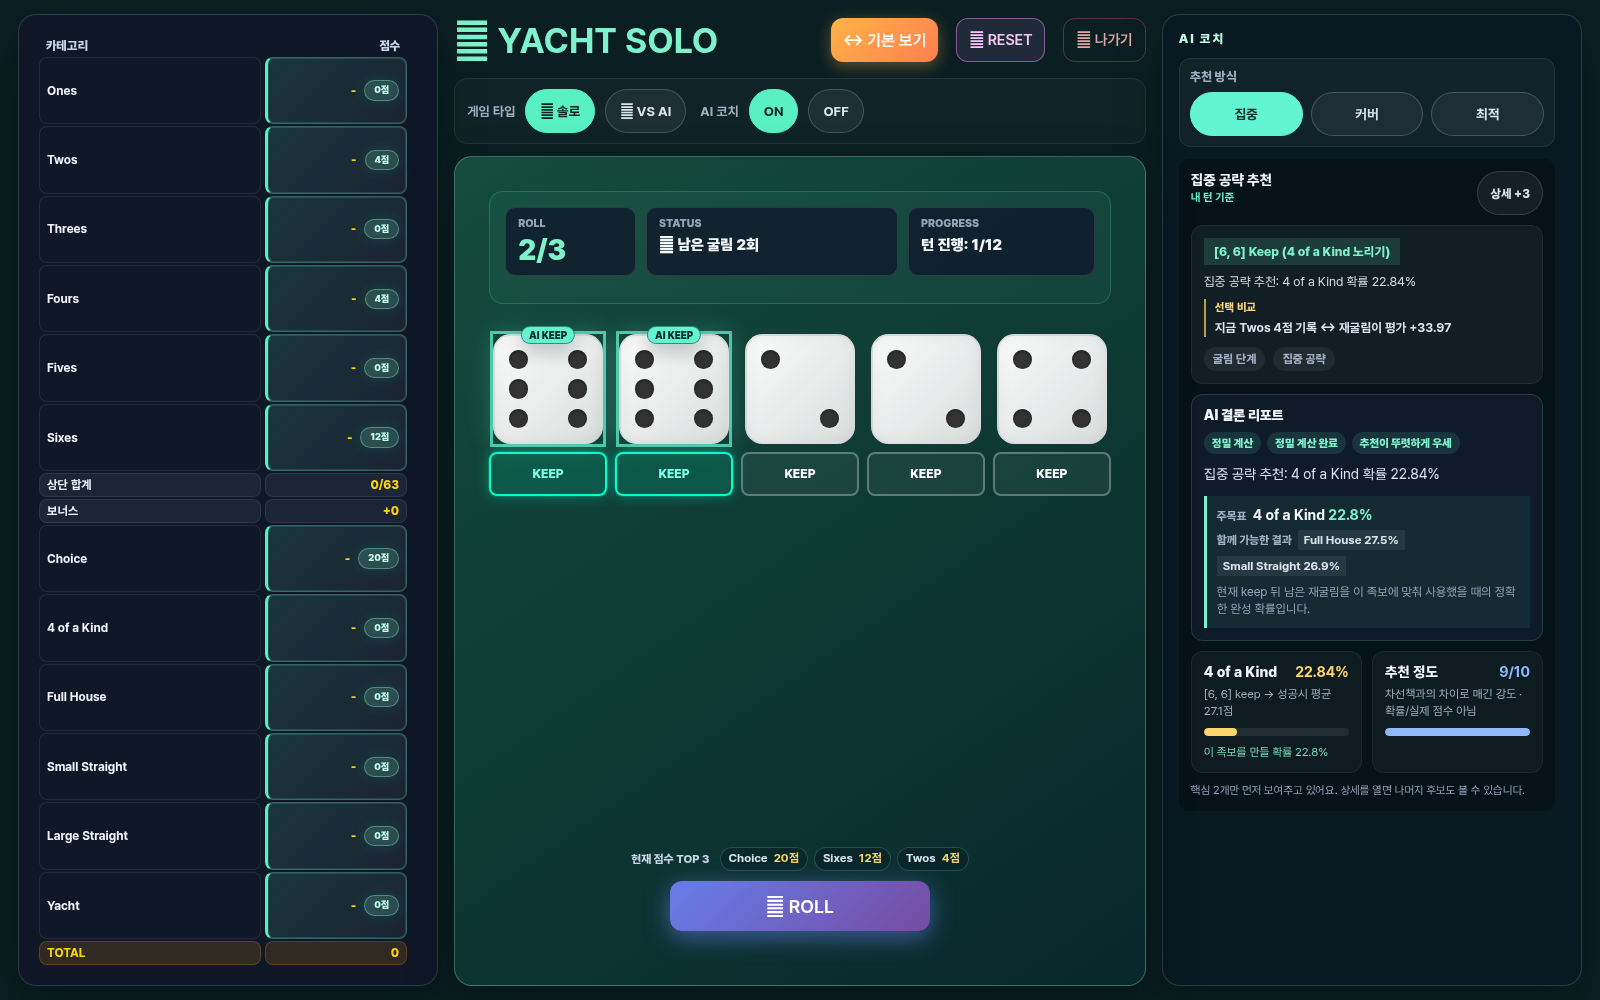
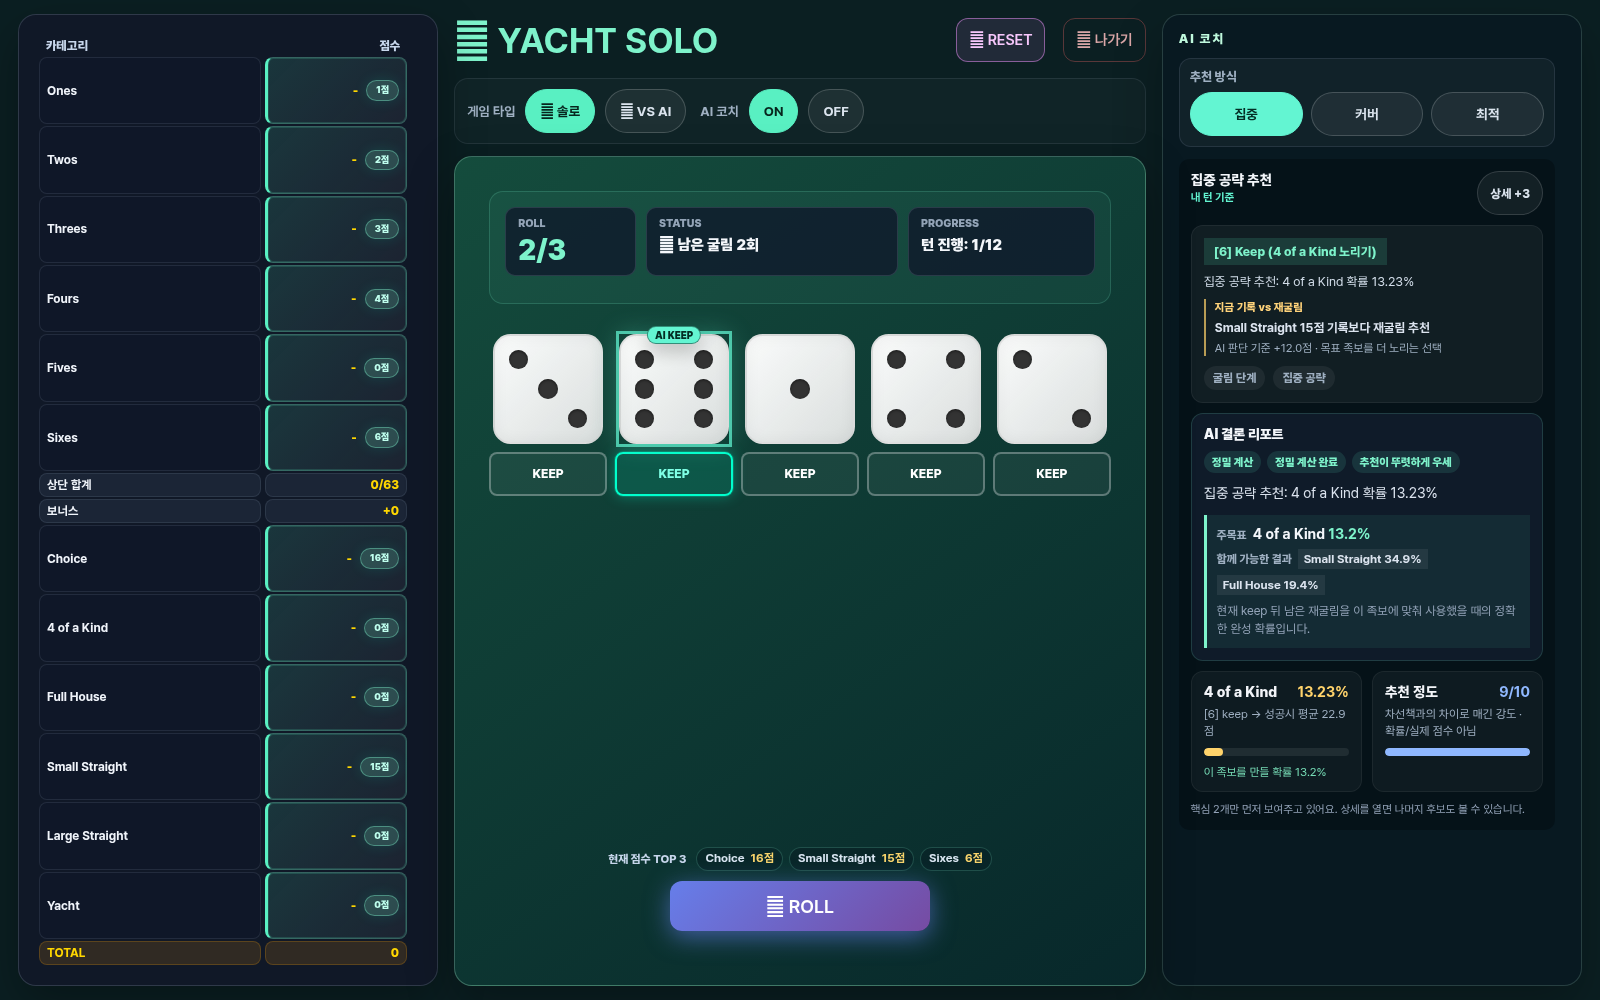
Document responsive table game layout

diff --git a/README.md b/README.md
@@ -4,7 +4,15 @@
 
 [바로 플레이하기](https://app.yatch-game.cloud/) · [게임 소개](https://app.yatch-game.cloud/intro) · [API 문서](./API.md)
 
-<img src="./docs/screenshots/table-default.png" width="1200" alt="데스크톱 기본 테이블 보기: 점수판, 주사위, 현재 점수 TOP 3, AI 코치를 한 화면에서 보여주는 Yacht 플레이" />
+<img src="./docs/screenshots/table-default.png" width="1200" alt="데스크톱 테이블 보기 예시: 점수판, 주사위, 현재 점수 TOP 3, AI 코치를 한 화면에서 보여주는 Yacht 플레이" />
+
+## 화면 구성
+
+- **PC** — 게임을 열면 자동으로 테이블 보기를 사용합니다. 왼쪽 점수판, 가운데 주사위와 ROLL, 오른쪽 AI 코치를 한 화면에 두어 현재 선택과 점수 흐름을 함께 볼 수 있습니다.
+- **모바일** — 기존의 세로 흐름을 유지합니다. 주사위를 먼저 보고 점수판과 추천을 아래에서 차례로 확인하므로 작은 화면에서도 조작이 빽빽해지지 않습니다.
+- **점수판** — 상단 족보 합계는 `현재 점수/63`, 보너스는 `+0` 또는 획득 점수로 표시합니다. 족보 이름에 마우스를 올리면 해당 족보의 점수 규칙을 볼 수 있습니다.
+
+데스크톱에서 `현재 점수 TOP 3`는 이번 주사위로 바로 기록할 수 있는 높은 점수 후보를 보여줍니다. 최종 선택은 항상 플레이어가 하며, 모바일에서는 공간을 위해 이 요약을 숨깁니다.
 
 ## 한 턴은 이렇게 합니다
 
@@ -51,6 +59,8 @@ python3 server.py
 ```
 
 브라우저에서 `http://localhost:8080`을 엽니다.
+
+화면 크기에 따라 게임 화면은 자동으로 전환됩니다. PC에서는 `/game/single/table`, `/game/multi/table` 테이블 보기를 사용하고, 모바일에서는 `/game/single`, `/game/multi` 세로 보기를 사용합니다.
 
 운영 환경에서는 Gunicorn을 사용할 수 있습니다.
 
